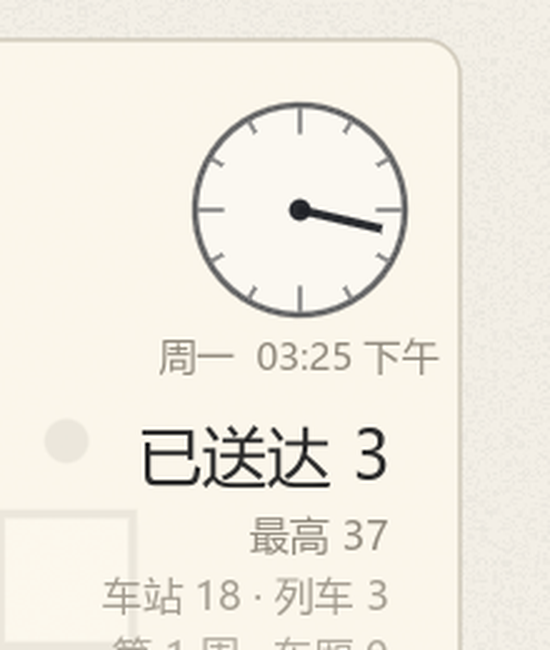
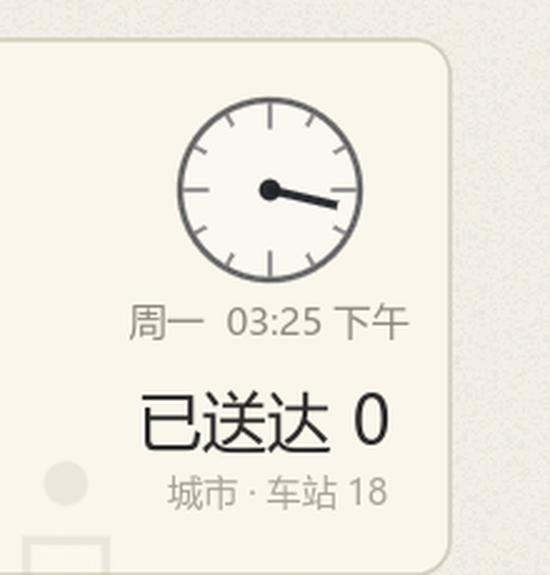
Smaller stations, slower trains, lighter HUD
- Station icon radius 26 -> 15.6 (-40%); waiting-passenger ring tightened from
  46 to 32 so icons stay close to the smaller stations
- Train speed constants lowered 40%: MAX_SPEED 210->126, ACCEL 150->90,
  DECEL 240->144 (journeys also take proportionally longer); transfer test
  timing adjusted for the slower first leg
- HUD cleanup: removed the persistent top-centre title/mode/stage text; the
  top-right panel now only holds clock + delivered count + town stage; the
  top-left panel drops the "线路" label and line-count text; the long bottom
  control hint auto-fades after 18 seconds (still shown while there are no
  lines); dead mode_title code removed
- tests: new scale assertions (672 checks)
- refreshed only the two relevant screenshots (m1 / start) and the clock crop;
  user-provided real-game screenshot intentionally not committed; no export

diff --git a/README.md b/README.md
@@ -34,8 +34,10 @@
 | 大都市 | 20 ~ 27 | + 度假区、博物馆、体育场 |
 | 都会 | ≥ 28 | + 公园、花园 |
 
-- 游戏窗口与设计分辨率都是 **2400×1200**；地图也是 2400×1200（列车速度与所有图标大小保持不变，单纯地图更大、更多河流）。每座城市都有更多水系：例如伦敦加了利河/拉文斯本河，巴黎加了马恩河/圣马丁运河，纽约加了哈莱姆河，柏林加了哈弗尔河/达默河，东京加了荒川，上海加了川杨河/淀浦河。
+- 游戏窗口与设计分辨率都是 **2400×1200**；地图也是 2400×1200（地图扩大本身不缩放列车与图标，单纯地图更大、更多河流）。每座城市都有更多水系：例如伦敦加了利河/拉文斯本河，巴黎加了马恩河/圣马丁运河，纽约加了哈莱姆河，柏林加了哈弗尔河/达默河，东京加了荒川，上海加了川杨河/淀浦河。
 - 相机随城镇发展**逐渐拉远**：开局较近（zoom 1.25，只能看到地图中央一块），城镇变大后回到正常距离（zoom 1.0，正好看全整张 2400×1200 地图）。
+- **手感调整**：车站图标半径 **15.6px**（比初版缩小 40%）；列车最高速 **126px/s**、加速度 90、减速度 144（均比初版降低 40%），行驶更慢、更容易看清。
+- **HUD 减负**：顶部标题不再常驻；右上只保留时钟 + 已送达 + 城镇阶段；左上只保留线色与库存；底部操作提示 18 秒后自动淡出。
 - 鼠标悬停车站会显示它代表的地标名称（`居民区` / `车站` / `商务区` / `医院` / `度假区` / `景点`）。
 
 ### 地标提示
@@ -260,7 +262,7 @@ $godot = "D:\Downloads\06_游戏与Flash资源\Godot_v4.7.2-stable_win64.exe\God
 ```powershell
 $godot = "D:\Downloads\06_游戏与Flash资源\Godot_v4.7.2-stable_win64.exe\Godot_v4.7.2-stable_win64_console.exe"
 & $godot --headless --path . --script res://tests/run_tests.gd
-# 期望输出：TESTS PASSED (668 checks)
+# 期望输出：TESTS PASSED (672 checks)
 ```
 
 覆盖：八向几何与弯曲翻转、弧长采样、网络增删、画线/撤销/重排/翻转/插站/停留移除手势、换乘寻路、
@@ -371,7 +373,7 @@ view/                     表现层（Node2D，只读模型）
 input/line_editor.gd      画线手势状态机（IDLE / DRAFT / REORDER / SEGMENT）+ Esc 设置信号
 ui/hud.gd                 资源/分数、周抽卡、换乘点选、模式菜单、暂停设置、结束遮罩（双语）
 tools/demo_setup.gd       截图用确定性布局
-tests/                    headless 测试（668 checks）
+tests/                    headless 测试（672 checks）
 export_presets.cfg        Windows Desktop 导出预设
 art/shaders/paper_grain.gdshader  极轻纸纹
 docs/设计方案.md           完整实现方案（机制拆解 / 架构 / 里程碑）

diff --git a/docs/设计方案.md b/docs/设计方案.md
@@ -21,7 +21,7 @@
 > **城镇五阶段发展（开局固定 3 站，形状逐步解锁、相机 1.25→1.0 拉远）**、**2400×1200 窗口/大地图与更多水系**、
 > 列车放大 1.5 倍并绘制车头、可点击倍速、
 > **初始 3 条 / 上限 7 条线路**、**闭合环线（列车单向循环、接缝处首末手柄分开）**、
-> 存档与设置、中英双语、Windows 导出。headless 测试 668 checks 全通过，截图见 `docs/images/`。
+> 存档与设置、中英双语、Windows 导出。headless 测试 672 checks 全通过，截图见 `docs/images/`。
 > 运行/测试/导出说明见 [README](../README.md)。
 
 ---
